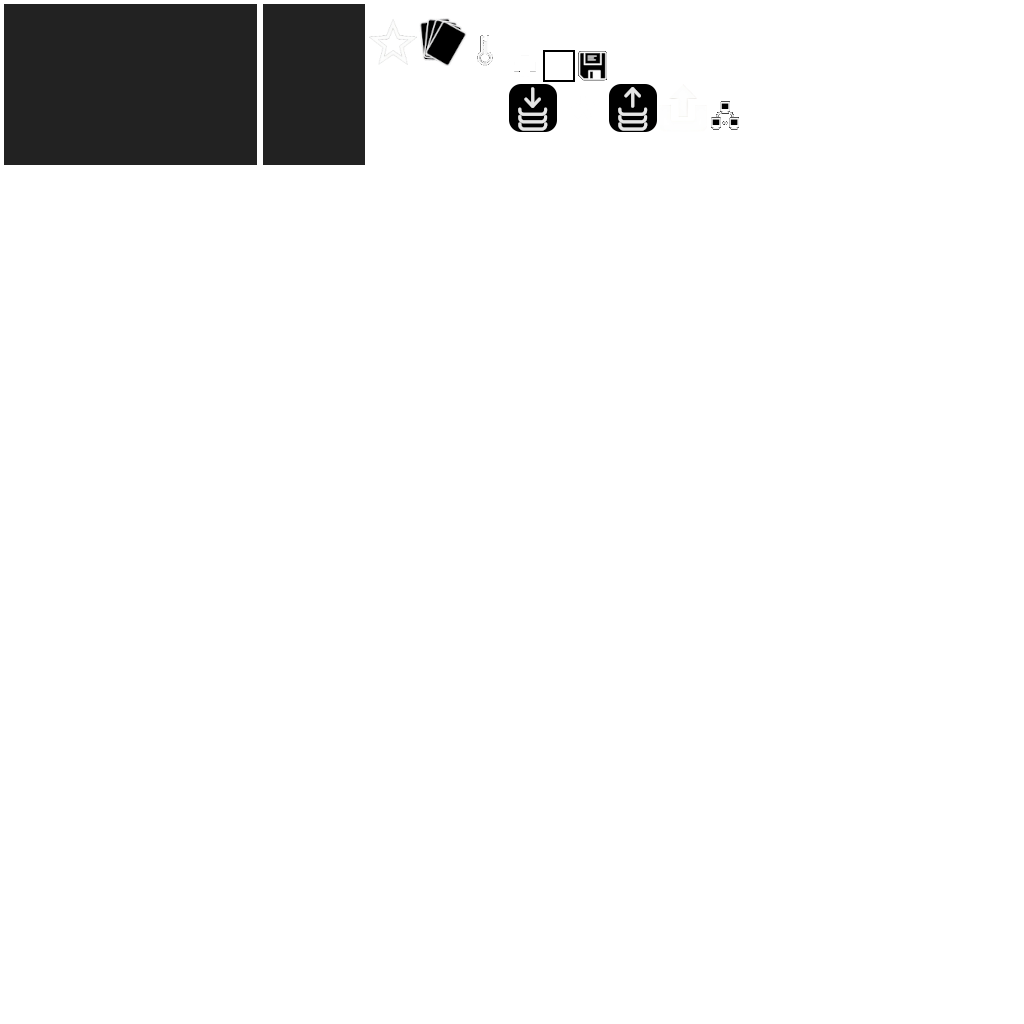
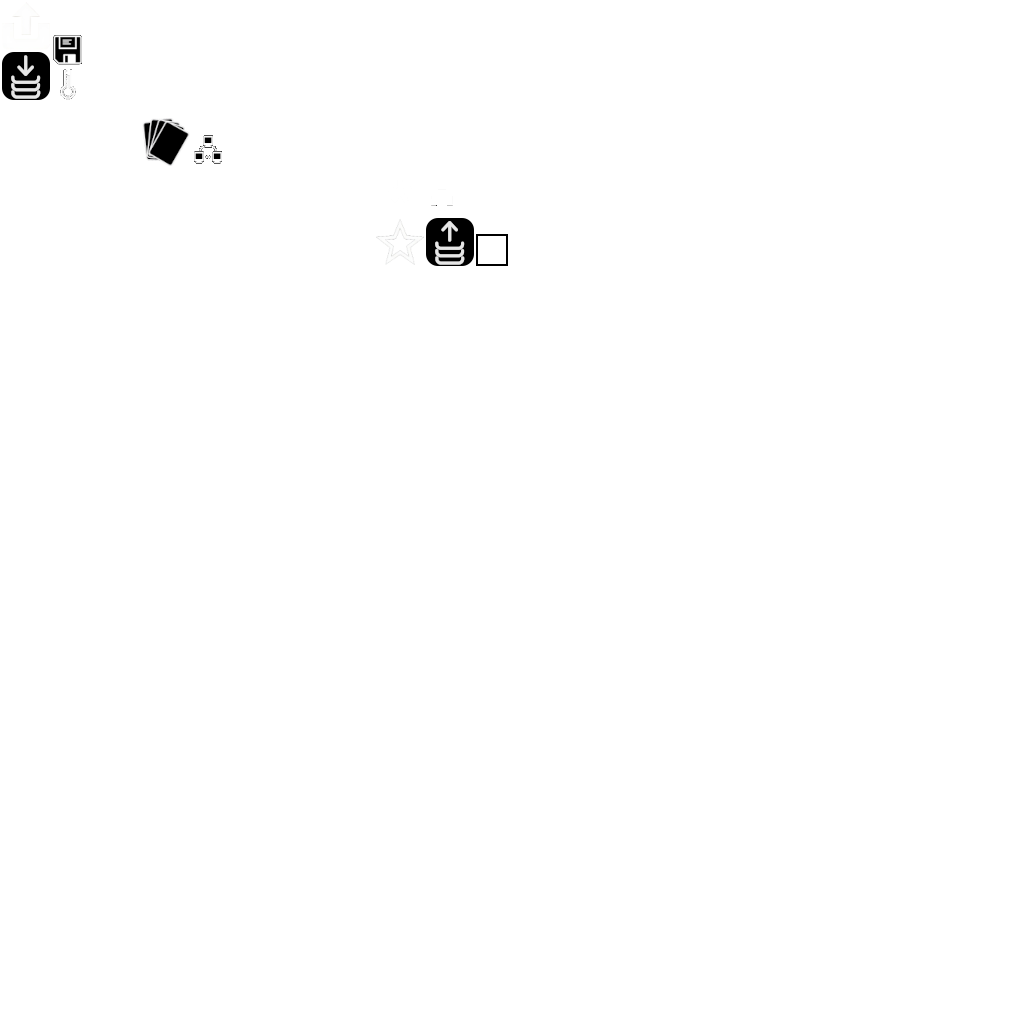
Add frame shape element  + Custom material/shader for frame shape  = Replace machine layouts image borders with frame shape  - Remove image border assets; regen atlas

diff --git a/crates/vagabond/src/manager/screen_layout_manager.rs b/crates/vagabond/src/manager/screen_layout_manager.rs
@@ -1,3 +1,4 @@
+use crate::gfx::FrameMaterial;
 use crate::manager::AtlasManager;
 use bevy::prelude::*;
 use bevy::sprite::{Anchor, MeshMaterial2d};
@@ -34,6 +35,7 @@ enum Element {
 enum ShapeKind {
     Rect,
     CapsuleX,
+    Frame,
 }
 
 struct ShapeElement {
@@ -91,6 +93,7 @@ impl ScreenLayout {
         match shape_kind {
             "rect" => Some(ShapeKind::Rect),
             "capsule_x" => Some(ShapeKind::CapsuleX),
+            "frame" => Some(ShapeKind::Frame),
             _ => None,
         }
     }
@@ -215,7 +218,7 @@ struct ScreenLayoutContainer {
     inherited_visibility: InheritedVisibility,
 }
 
-type BevyAssetsForBuildLayout<'a> = (&'a AssetServer, &'a mut Assets<Mesh>, &'a mut Assets<ColorMaterial>);
+type BevyAssetsForBuildLayout<'a> = (&'a AssetServer, &'a mut Assets<Mesh>, &'a mut Assets<ColorMaterial>, &'a mut Assets<FrameMaterial>);
 
 impl ScreenLayoutManager {
     pub(crate) fn new(path: impl AsRef<Path>) -> Result<Self, std::io::Error> {
@@ -336,18 +339,26 @@ impl ScreenLayoutManager {
         }
     }
 
-    fn make_shape_bundle(element: &ShapeElement, meshes: &mut Assets<Mesh>, materials: &mut Assets<ColorMaterial>) -> impl Bundle {
-        let handle = match element.kind {
-            ShapeKind::Rect => meshes.add(Rectangle::new(element.size.x, element.size.y)),
-            ShapeKind::CapsuleX => meshes.add(Capsule2d::new(element.size.y / 2.0, element.size.x - element.size.y)),
-        };
-        let mesh = Mesh2d(handle);
-        let material = MeshMaterial2d(materials.add(Color::Srgba(element.color)));
+    fn make_shape_bundle_frame(element: &ShapeElement, meshes: &mut Assets<Mesh>, materials: &mut Assets<FrameMaterial>) -> impl Bundle {
+        let mesh = Mesh2d(meshes.add(Rectangle::new(element.size.x, element.size.y)));
+        let material = MeshMaterial2d(materials.add(FrameMaterial::new(LinearRgba::from(element.color), element.size)));
+        let transform = Transform::from_translation(element.position);
 
-        let rotation = match element.kind {
-            ShapeKind::Rect => Quat::IDENTITY,
-            ShapeKind::CapsuleX => Quat::from_rotation_z(PI / 2.0),
-        };
+        (mesh, material, transform)
+    }
+
+    fn make_shape_bundle_rect(element: &ShapeElement, meshes: &mut Assets<Mesh>, materials: &mut Assets<ColorMaterial>) -> impl Bundle {
+        let mesh = Mesh2d(meshes.add(Rectangle::new(element.size.x, element.size.y)));
+        let material = MeshMaterial2d(materials.add(Color::Srgba(element.color)));
+        let transform = Transform::from_translation(element.position);
+
+        (mesh, material, transform)
+    }
+
+    fn make_shape_bundle_capsule_x(element: &ShapeElement, meshes: &mut Assets<Mesh>, materials: &mut Assets<ColorMaterial>) -> impl Bundle {
+        let mesh = Mesh2d(meshes.add(Capsule2d::new(element.size.y / 2.0, element.size.x - element.size.y)));
+        let material = MeshMaterial2d(materials.add(Color::Srgba(element.color)));
+        let rotation = Quat::from_rotation_z(PI / 2.0);
 
         let transform = Transform {
             translation: element.position,
@@ -411,17 +422,19 @@ impl ScreenLayoutManager {
         }
     }
 
-    fn build_layout(&self, layout_name: &str, parent: &mut ChildBuilder, base_name: &str, am: &AtlasManager, (asset_server, meshes, materials): BevyAssetsForBuildLayout) -> Vec<(String, Entity)> {
+    fn build_layout(&self, layout_name: &str, parent: &mut ChildBuilder, base_name: &str, am: &AtlasManager, (asset_server, meshes, materials_color, materials_frame): BevyAssetsForBuildLayout) -> Vec<(String, Entity)> {
         let mut entities = Vec::new();
         let layout = self.layout_map.get(layout_name).unwrap();
 
         for (name, element) in &layout.element_map {
             let full_name = Self::make_name(base_name, name);
             let id = match element {
-                Element::Shape(e) => {
-                    let shape = Self::make_shape_bundle(e, meshes, materials);
-                    parent.spawn(shape).id()
+                Element::Shape(e) => match e.kind {
+                    ShapeKind::Rect => parent.spawn(Self::make_shape_bundle_rect(e, meshes, materials_color)),
+                    ShapeKind::CapsuleX => parent.spawn(Self::make_shape_bundle_capsule_x(e, meshes, materials_color)),
+                    ShapeKind::Frame => parent.spawn(Self::make_shape_bundle_frame(e, meshes, materials_frame)),
                 }
+                .id(),
                 Element::Sprite(e) => {
                     if let Some(sprite) = Self::make_sprite_bundle(am, &e.atlas, &e.item, e.position, e.color) {
                         parent.spawn((sprite, PickingBehavior::IGNORE)).id()
@@ -438,7 +451,7 @@ impl ScreenLayoutManager {
                     parent
                         .spawn(container)
                         .with_children(|parent| {
-                            let mut nested_entities = self.build_layout(&e.layout, parent, &full_name, am, (asset_server, meshes, materials));
+                            let mut nested_entities = self.build_layout(&e.layout, parent, &full_name, am, (asset_server, meshes, materials_color, materials_frame));
                             entities.append(&mut nested_entities);
                         })
                         .id()
@@ -450,11 +463,12 @@ impl ScreenLayoutManager {
         entities
     }
 
-    pub(crate) fn build(&mut self, commands: &mut Commands, layout_name: &str, am: &AtlasManager, (asset_server, mut meshes, mut materials): (Res<AssetServer>, ResMut<Assets<Mesh>>, ResMut<Assets<ColorMaterial>>)) -> &ScreenLayout {
+    #[allow(clippy::type_complexity)]
+    pub(crate) fn build(&mut self, commands: &mut Commands, layout_name: &str, am: &AtlasManager, (asset_server, mut meshes, mut materials_color, mut materials_frame): (Res<AssetServer>, ResMut<Assets<Mesh>>, ResMut<Assets<ColorMaterial>>, ResMut<Assets<FrameMaterial>>)) -> &ScreenLayout {
         let id = commands
             .spawn(ScreenLayoutContainer::default())
             .with_children(|parent| {
-                let entities = self.build_layout(layout_name, parent, "", am, (&asset_server, &mut meshes, &mut materials));
+                let entities = self.build_layout(layout_name, parent, "", am, (&asset_server, &mut meshes, &mut materials_color, &mut materials_frame));
                 let layout = self.layout_map.get_mut(layout_name).unwrap();
                 layout.entity_map = entities.into_iter().collect();
             })

diff --git a/crates/vagabond/src/screen/login.rs b/crates/vagabond/src/screen/login.rs
@@ -1,3 +1,9 @@
+use crate::gfx::FrameMaterial;
+use crate::manager::{AtlasManager, NetworkManager, ScreenLayoutManager};
+use crate::network::client_drawbridge;
+use crate::network::client_drawbridge::{AuthInfo, DrawbridgeClient, DrawbridgeIFace};
+use crate::network::client_gate::{GateClient, GateCommand, GateIFace};
+use crate::system::AppState;
 use bevy::prelude::*;
 use bevy::ui::FocusPolicy;
 use bevy_simple_text_input::{TextInput, TextInputInactive, TextInputSettings, TextInputSubmitEvent, TextInputTextColor, TextInputTextFont, TextInputValue};
@@ -5,12 +11,6 @@ use shared_net::types::AuthType;
 use std::env;
 use std::mem::discriminant;
 use tokio::sync::mpsc;
-
-use crate::manager::{AtlasManager, NetworkManager, ScreenLayoutManager};
-use crate::network::client_drawbridge;
-use crate::network::client_drawbridge::{AuthInfo, DrawbridgeClient, DrawbridgeIFace};
-use crate::network::client_gate::{GateClient, GateCommand, GateIFace};
-use crate::system::AppState;
 
 const SCREEN_LAYOUT: &str = "login";
 
@@ -110,13 +110,14 @@ fn textedit_bundle(left: f32, top: f32, width: f32, height: f32, mask_character:
     )
 }
 
+#[allow(clippy::type_complexity)]
 fn login_ui_setup(
     // bevy system
     mut commands: Commands,
     drawbridge: Res<DrawbridgeIFace>,
     am: Res<AtlasManager>,
     mut slm: ResMut<ScreenLayoutManager>,
-    for_slm: (Res<AssetServer>, ResMut<Assets<Mesh>>, ResMut<Assets<ColorMaterial>>),
+    for_slm: (Res<AssetServer>, ResMut<Assets<Mesh>>, ResMut<Assets<ColorMaterial>>, ResMut<Assets<FrameMaterial>>),
 ) {
     let layout = slm.build(&mut commands, SCREEN_LAYOUT, &am, for_slm);
 

diff --git a/crates/vagabond/src/screen/compose.rs b/crates/vagabond/src/screen/compose.rs
@@ -1,3 +1,4 @@
+use crate::gfx::FrameMaterial;
 use crate::manager::{AtlasManager, DataManager, ScreenLayout, ScreenLayoutManager, WarehouseManager};
 use crate::network::client_gate::{GateCommand, GateIFace};
 use crate::screen::card_layout::{CardLayout, CardPopulateEvent};
@@ -236,13 +237,14 @@ impl PartEntityCommandsExtension for &mut EntityCommands<'_> {
     }
 }
 
+#[allow(clippy::type_complexity)]
 fn compose_enter(
     // bevy system
     mut commands: Commands,
     init_handoff: Res<ComposeInitHandoff>,
     am: Res<AtlasManager>,
     mut slm: ResMut<ScreenLayoutManager>,
-    for_slm: (Res<AssetServer>, ResMut<Assets<Mesh>>, ResMut<Assets<ColorMaterial>>),
+    for_slm: (Res<AssetServer>, ResMut<Assets<Mesh>>, ResMut<Assets<ColorMaterial>>, ResMut<Assets<FrameMaterial>>),
 ) {
     let parts = init_handoff.parts.clone();
     commands.remove_resource::<ComposeInitHandoff>();

diff --git a/crates/vagabond/src/screen/gameplay.rs b/crates/vagabond/src/screen/gameplay.rs
@@ -1,3 +1,4 @@
+use crate::gfx::FrameMaterial;
 use crate::manager::{AtlasManager, DataManager, ScreenLayoutManager};
 use crate::network::client_gate::{GateCommand, GateIFace};
 use crate::screen::card_layout::{CardLayout, CardPopulateEvent};
@@ -280,6 +281,7 @@ impl PickableEntityCommandsExtension for &mut EntityCommands<'_> {
     }
 }
 
+#[allow(clippy::type_complexity)]
 fn gameplay_enter(
     // bevy system
     mut commands: Commands,
@@ -287,7 +289,7 @@ fn gameplay_enter(
     mut send: EventWriter<UiEvent>,
     am: Res<AtlasManager>,
     mut slm: ResMut<ScreenLayoutManager>,
-    for_slm: (Res<AssetServer>, ResMut<Assets<Mesh>>, ResMut<Assets<ColorMaterial>>),
+    for_slm: (Res<AssetServer>, ResMut<Assets<Mesh>>, ResMut<Assets<ColorMaterial>>, ResMut<Assets<FrameMaterial>>),
 ) {
     let layout = slm.build(&mut commands, SCREEN_LAYOUT, &am, for_slm);
 

diff --git a/crates/vagabond/src/main.rs b/crates/vagabond/src/main.rs
@@ -1,8 +1,11 @@
+use crate::gfx::FrameMaterial;
 use bevy::app::App;
 use bevy::prelude::*;
+use bevy::sprite::Material2dPlugin;
 use bevy::window::WindowResolution;
 use system::AppState;
 
+mod gfx;
 mod manager;
 mod network;
 mod screen;
@@ -19,6 +22,7 @@ fn main() -> AppExit {
             ..default()
         }))
         .add_plugins(bevy_simple_text_input::TextInputPlugin)
+        .add_plugins(Material2dPlugin::<FrameMaterial>::default())
         .add_plugins((manager::ManagerPlugins, screen::ScreenPlugins, system::SystemPlugins))
         .insert_resource(ClearColor(Color::srgb(0.0, 0.0, 0.0)))
         .init_state::<AppState>()

diff --git a/crates/vagabond/src/gfx.rs b/crates/vagabond/src/gfx.rs
@@ -1,0 +1,3 @@
+mod frame_material;
+
+pub(crate) use frame_material::FrameMaterial;
